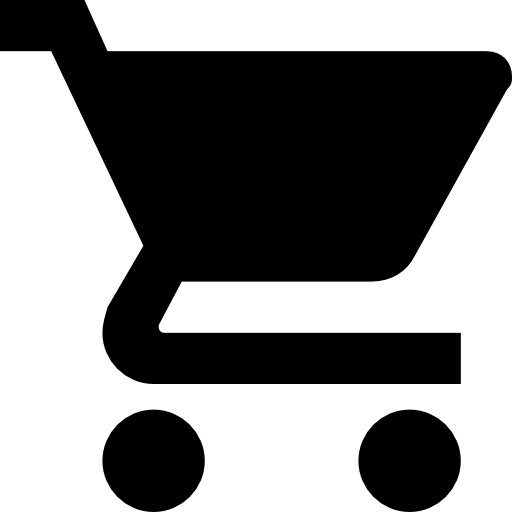
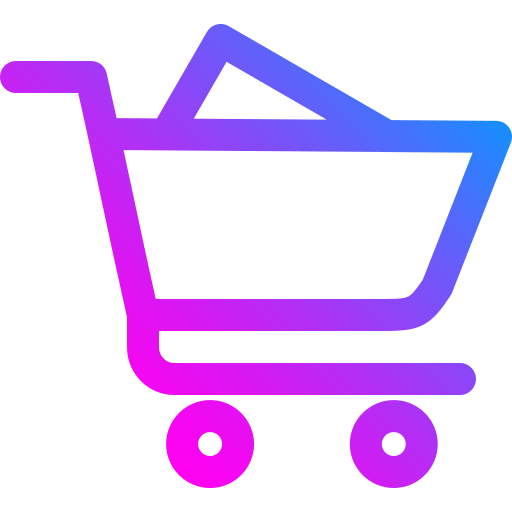
Colores Agregados y pagina de Sobre Nosotros

diff --git a/src/containers/ProductContainer.css b/src/containers/ProductContainer.css
@@ -23,23 +23,61 @@
 }
 
 .product-container {
-  border: 1px solid #ddd;
+  position: relative;
   padding: 20px;
   margin: 10px;
   height: 400px;
   border-radius: 10px;
   box-shadow: 0 4px 8px rgba(0, 0, 0, 0.2);
-  transition: transform 0.3s, box-shadow 0.3s;
+  transition: transform 0.3s, box-shadow 0.3s, color 0.3s; /* Añadido transition para color */
   width: 300px;
   text-align: center;
   animation: bounceOut 0.8s ease-in-out;
   box-sizing: border-box;
+  overflow: hidden; 
+  background: white; 
 }
 
 .product-container:hover {
   transform: scale(1.05);
   box-shadow: 0 8px 16px rgba(0, 0, 0, 0.3);
 }
+
+.product-container::before {
+  content: '';
+  position: absolute;
+  top: -5px; 
+  left: -5px; 
+  right: -5px; 
+  bottom: -5px; 
+  background: linear-gradient(45deg,#1E98FD,#FF00F7);
+  z-index: -1; 
+  border-radius: 10px;
+  opacity: 0; 
+  transition: opacity 0.3s ease-in-out; 
+}
+
+.product-container:hover::before {
+  opacity: 1; 
+}
+
+.product-container h2, .product-container h4, .product-container p {
+  font-weight: bold;
+  background: linear-gradient(45deg,#1E98FD,#FF00F7);
+  -webkit-background-clip: text;
+  color: transparent;
+  transition: color 0.3s; 
+}
+
+.product-container:hover h2,
+.product-container:hover h4,
+.product-container:hover p {
+  color: #ffffff; 
+  -webkit-background-clip: unset; 
+  background: none; 
+}
+
+
 
 .product-image {
   width: 200px;
@@ -48,19 +86,24 @@
   margin-bottom: 10px;
 }
 
+.product-container:hover img{
+  border: #fff solid 2px;
+
+}
+
 .add-button {
   margin-top: 10px;
   padding: 10px 20px;
   border: none;
-  background-color: #4b5bd7;
+  background: linear-gradient(45deg,#FF00D8,#FF542E);
   color: #fff;
   border-radius: 5px;
   cursor: pointer;
-  transition: background-color 0.3s;
+  transition: transform 0.3s ease-in-out;
 }
 
 .add-button:hover {
-  background-color: #6776e7;
+  transform:scale(1.2);
 }
 
 .product-list {
@@ -97,7 +140,11 @@
 .product-container.search-result .product-price {
   font-size: 1em;
   margin: 0 10px;
-  color: #333;
+}
+
+.product-container.search-result .product-price:hover {
+  font-size: 1em;
+  margin: 0 10px;
 }
 
 .product-container.search-result .add-button {

diff --git a/src/components/AboutUs.jsx b/src/components/AboutUs.jsx
@@ -1,0 +1,35 @@
+import React from "react";
+import "../index.css";
+import "./AboutUs.css";
+import about_img from "../img/about-us-img.webp";
+
+const AboutUs = () => {
+  return (
+    <div className="about-us-page">
+      <div className="about-us-hero">
+        <h2>Sobre Nosotros</h2>
+        <p>
+        En SerenaLab, creemos que la educación transforma vidas. Somos una plataforma dedicada a la educación en línea, 
+        diseñada para empoderarte en tu camino hacia el éxito personal y profesional. Ofrecemos una amplia gama de cursos 
+        cuidadosamente creados para satisfacer las necesidades de estudiantes, profesionales y apasionados del aprendizaje continuo.
+        </p>
+        <p>
+        Nuestro enfoque está centrado en proporcionar una experiencia de aprendizaje accesible, flexible y de alta calidad, 
+        adaptada al ritmo de cada persona. Entendemos que cada estudiante es único, por eso nuestros cursos abarcan desde habilidades 
+        técnicas hasta desarrollo personal, garantizando que encuentres el contenido perfecto para alcanzar tus metas.
+        </p>
+        <p>
+        En SerenaLab, nos esforzamos por ser mucho más que una plataforma de cursos; queremos ser tu aliado en el aprendizaje. 
+        Nos comprometemos a crear un entorno donde puedas explorar, crecer y triunfar, con el apoyo de instructores expertos y
+         una comunidad vibrante de estudiantes de todo el mundo.
+        </p>
+        <p>
+        Únete a SerenaLab y da el primer paso hacia un futuro lleno de posibilidades. ¡El conocimiento está al alcance de tus manos!
+        </p>
+        <img src={about_img} alt="Sobre Nosotros" className="about-us-image" />
+      </div>
+    </div>
+  );
+};
+
+export default AboutUs;

diff --git a/src/components/AboutUs.css b/src/components/AboutUs.css
@@ -1,0 +1,52 @@
+@keyframes bounceOut {
+    0% {
+      opacity: 0;
+      transform: translateY(-100px); 
+    }
+    60% {
+      opacity: 1;
+      transform: translateY(20px); 
+    }
+    80% {
+      transform: translateY(-10px); 
+    }
+    100% {
+      transform: translateY(0);
+    }
+  }
+
+.about-us-page {
+    display: flex;
+    flex-direction: column;
+    min-height: 100vh;
+  }
+  
+  .about-us-hero {
+    flex: 1;
+    padding: 50px 100px;
+    text-align:left;
+    background-color: #ffffff;
+    animation: bounceOut 0.8s ease-in-out; 
+  }
+  
+  .about-us-hero h2 {
+    font-size: 36px;
+    margin-bottom: 20px;
+  }
+  
+  .about-us-hero p {
+    font-size: 18px;
+    line-height: 1.5;
+    margin-bottom: 30px;
+  }
+
+  .about-us-image { 
+    max-width: 70%; 
+    height: auto; 
+    border-radius: 10px; 
+    align-items: center;
+    display: block; 
+    margin-left: auto; 
+    margin-right: auto;
+}
+  

diff --git a/src/App.jsx b/src/App.jsx
@@ -8,6 +8,7 @@ import Popular from "./components/Popular";
 import Products from "./components/Products";
 import SearchResults from "./components/SearchResults";
 import Cart from "./components/Cart";
+import AboutUs from "./components/AboutUs";
 import Notification from "./components/Notification";
 import "./index.css";
 
@@ -26,7 +27,7 @@ function App() {
       name: "Curso Java", 
       description: "Aprende Java desde los fundamentos.", 
       image: require("./img/java.webp"), 
-      price: 150 
+      price: 150
     },
     { 
       name: "Curso Python", 
@@ -139,6 +140,9 @@ function App() {
           path="/cart"
           element={<Cart cartItems={cartItems} handleRemoveFromCart={handleRemoveFromCart} />}
         />
+        <Route
+          path="/about-us" 
+          element={<AboutUs />} />
       </Routes>
       <Footer />
     </Router>

diff --git a/src/components/Header.jsx b/src/components/Header.jsx
@@ -4,6 +4,7 @@ import "../index.css";
 import "./Header.css";
 import homeicon from "../img/home-icon.png";
 import carticon from "../img/cart-icon.png";
+import abouticon from "../img/about-logo.png";
 
 const Header = ({ setSearchQuery }) => {
   const [searchTerm, setSearchTerm] = useState("");
@@ -18,6 +19,9 @@ const Header = ({ setSearchQuery }) => {
       <div className="nav-buttons">
         <Link to="/" className="nav-button home-button">
           <img src={homeicon} alt="Home" className="icon" />
+        </Link>
+        <Link to="/about-us" className="nav-button">
+            <img src={abouticon} alt="Sobre Nosotros" className="icon" />
         </Link>
         <Link to="/cart" className="nav-button cart-button">
           <img src={carticon} alt="Carrito" className="icon" />

diff --git a/src/components/Footer.jsx b/src/components/Footer.jsx
@@ -1,10 +1,10 @@
 import React from "react";
 import "../index.css";
 import "./Footer.css"
-import facebookImage from '../img/Logo-Facebook(BN).png';
-import twitterImage from '../img/Twitter-Logo.webp';
-import instagramImage from '../img/Logo-Instagram(BN).png';
-import linkedinImage from '../img/Logo - Linkedin.png';
+import facebookImage from '../img/face-logo.png';
+import twitterImage from '../img/twitter-logo.png';
+import instagramImage from '../img/insta-logo.png';
+import linkedinImage from '../img/link-logo.png';
 
 
 const Footer = () => {

diff --git a/src/components/Products.css b/src/components/Products.css
@@ -23,16 +23,17 @@
   }
   
   .load-more-button {
+    margin-top: 10px;
     padding: 10px 20px;
-    background-color: #4b5bd7;
-    color: white;
     border: none;
+    background: linear-gradient(45deg,#FF00D8,#FF542E);
+    color: #fff;
     border-radius: 5px;
     cursor: pointer;
-    transition: background-color 0.3s;
+    transition: transform 0.3s ease-in-out;
   }
   
   .load-more-button:hover {
-    background-color: #6776e7;
+    transform:scale(1.2);
   }
   

diff --git a/src/containers/ProductContainer.js b/src/containers/ProductContainer.js
@@ -7,7 +7,7 @@ const ProductContainer = ({ name, description, image, price, isSearchResult, han
       <img src={image} alt={name} className="product-image" />
       <h2>{name}</h2>
       {!isSearchResult && <p>{description}</p>}
-      <p className="product-price">${price}</p>
+      <h4 className="product-price">${price}</h4>
       <button 
         className="add-button" 
         onClick={() => handleAddToCart({ name, description, image, price })}

diff --git a/src/components/Popular.jsx b/src/components/Popular.jsx
@@ -4,7 +4,7 @@ import ProductContainer from "../containers/ProductContainer";
 const Popular = ({ courses, handleAddToCart }) => (
   <>
     <div className="page-title">
-      <h1 className="animated-title">+ Populares</h1>
+      <h1 className="animated-title">+ Populares +</h1>
     </div>
     <div className="product-list">
       {courses.map((course, index) => (

diff --git a/src/components/Notification.css b/src/components/Notification.css
@@ -4,7 +4,9 @@
     left: 50%;
     transform: translateX(-50%);
     padding: 10px 20px;
-    background-color: #4b5bd7;
+    margin-top: 10px;
+    border: none;
+    background: linear-gradient(45deg,#FF00D8,#FF542E);
     color: #fff;
     border-radius: 5px;
     box-shadow: 0 2px 10px rgba(0, 0, 0, 0.2);

diff --git a/src/index.css b/src/index.css
@@ -4,7 +4,14 @@
   list-style: none;
   text-decoration: none;
   font-family: 'Roboto', Arial, sans-serif;
+  
   box-sizing: border-box;
+}
+
+h1, h2, h3, h4, p, input{
+  background: linear-gradient(45deg,#1E98FD,#FF00F7);
+    -webkit-background-clip: text;
+    color: transparent;  
 }
 
 :root {

diff --git a/src/components/Footer.css b/src/components/Footer.css
@@ -39,5 +39,5 @@
   }
   
   .social-media a img:hover {
-    transform: scale(1.1);
+    transform: scale(1.4);
   }
